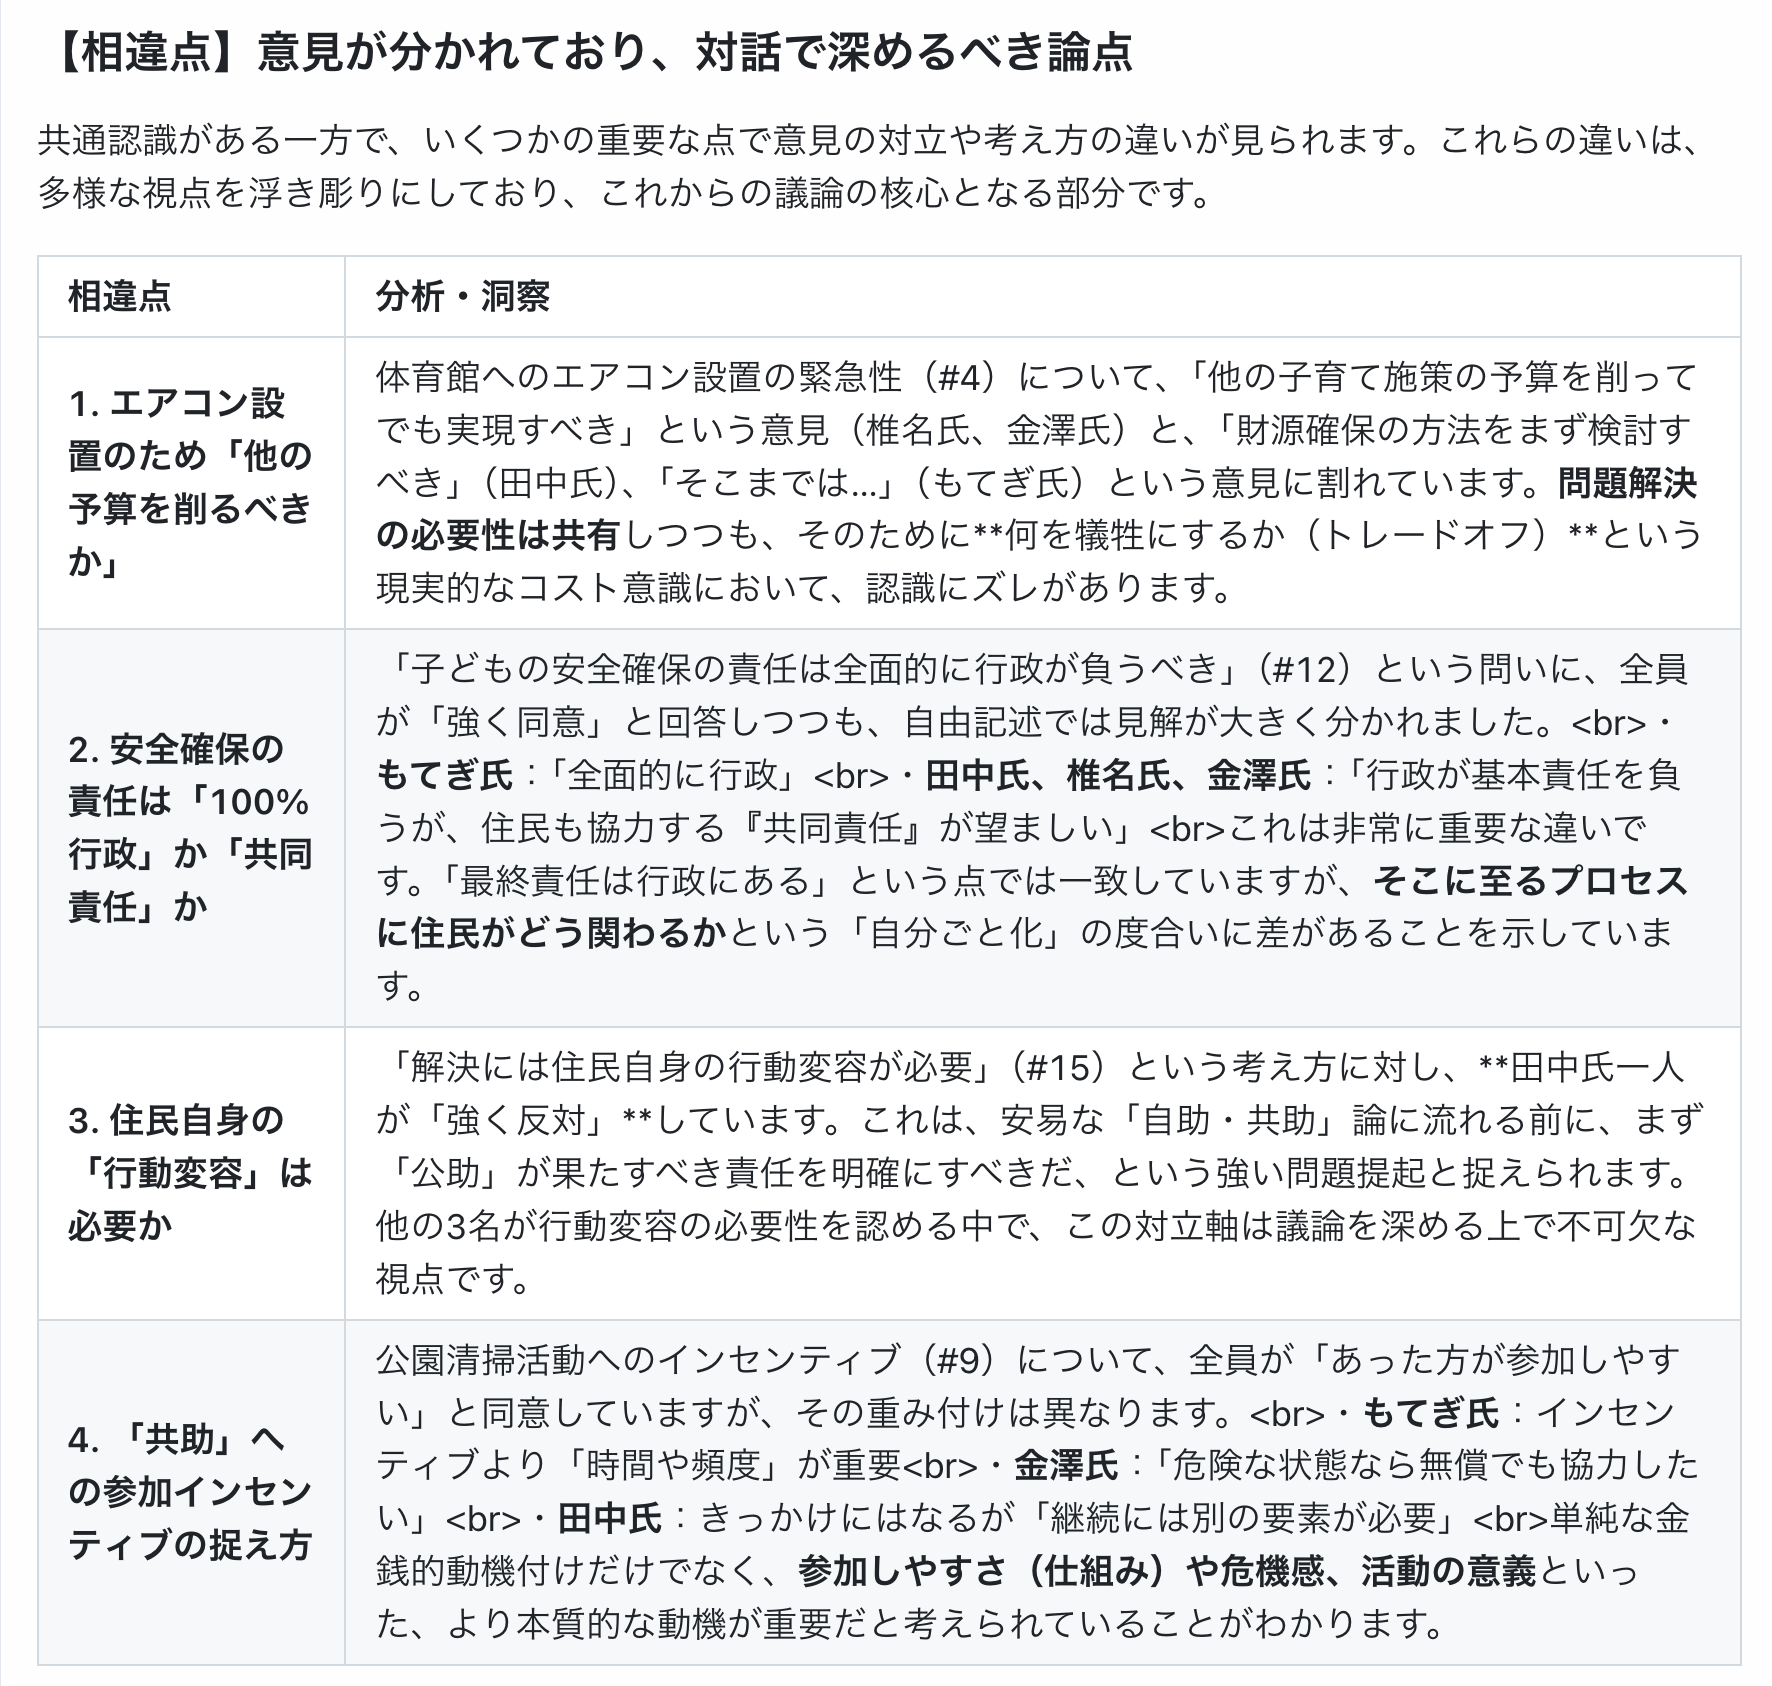
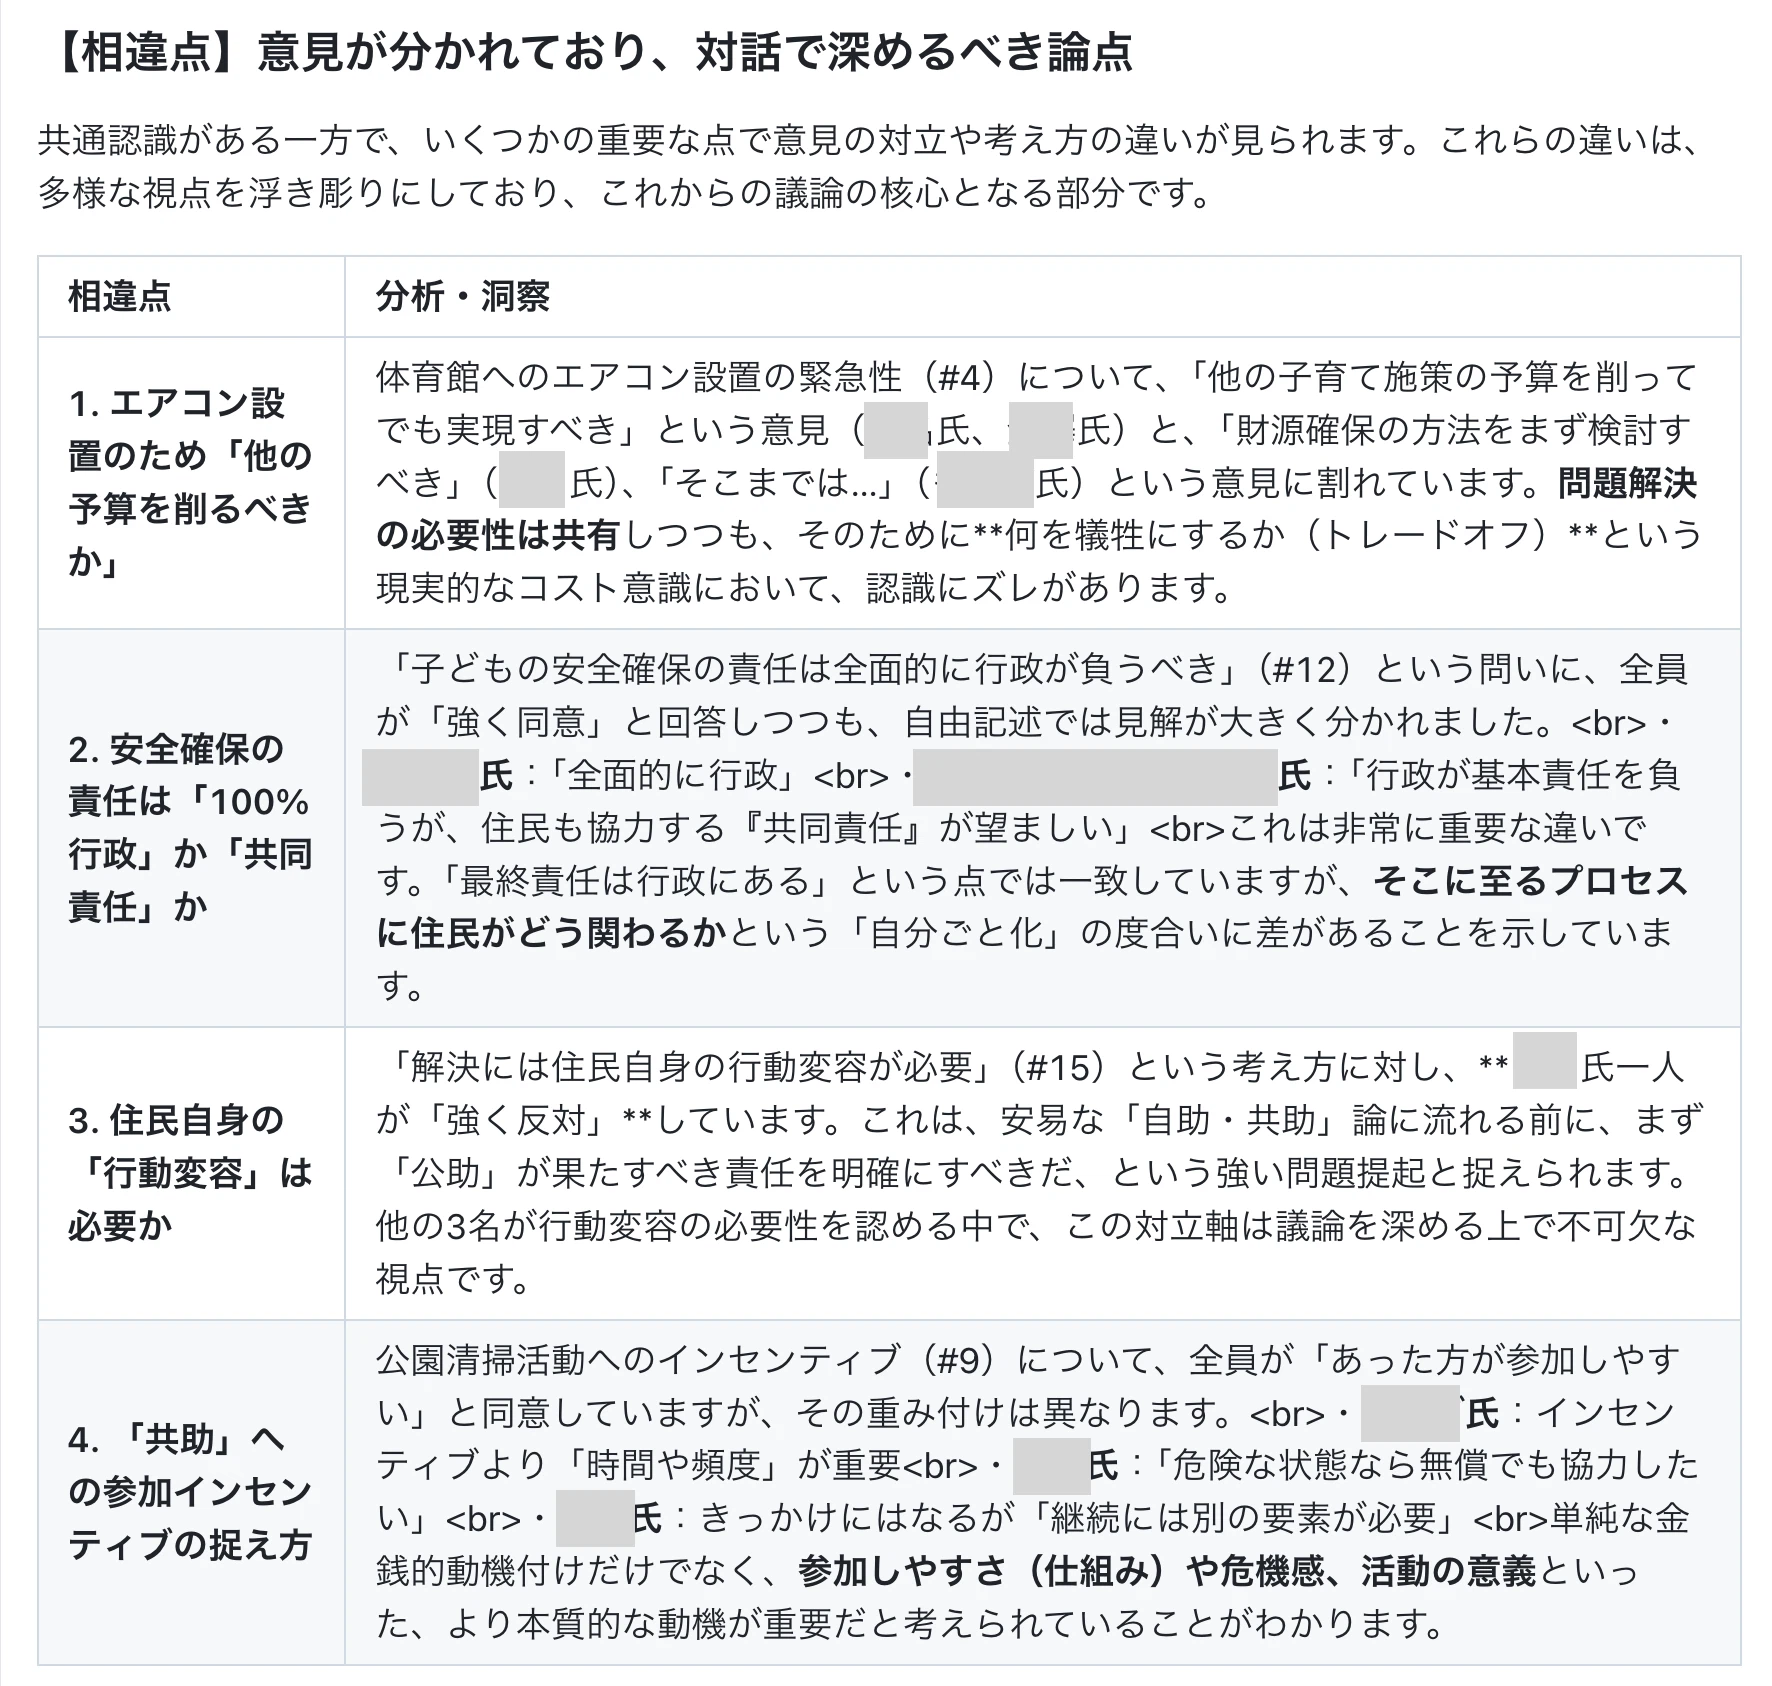
太田市事例の画像3点をモザイク処理済み版に差し替え
tokorotenのレビュー指摘に対応。住民の顔が写っている画像に
モザイクを適用した版に入れ替え:
- 自分ごと化会議の会場風景（jpeg→png変換も実施）
- スマートフォンで倍速会議に回答する参加者
- 倍速会議の相違点レポート

Entire-Checkpoint: 782ad14d7b65

diff --git a/11_03_多元現実.md b/11_03_多元現実.md
@@ -102,7 +102,7 @@
 
 本取り組みは太田市が主催し、構想日本が協力して実施したもので、多元現実は技術協力としてAI支援を提供しました。
 
-![太田市「自分ごと化会議」の会場風景。会議室に複数のグループテーブルが配置され、10代から70代までの約20名の市民が着席して議論している。室内の2つの大型スクリーンには倍速会議の分析結果が投影されており、左のスクリーンには個人の経験に基づく意見の要約が、右のスクリーンには「安心して過ごせる場づくり」といった議論テーマが表示されている。参加者はテーブルごとに向かい合い、資料を見ながら対話を進めている。](images/11_03_ota_jibungotoka_overview.jpeg)
+![太田市「自分ごと化会議」の会場風景。会議室に複数のグループテーブルが配置され、10代から70代までの約20名の市民が着席して議論している。室内の2つの大型スクリーンには倍速会議の分析結果が投影されており、左のスクリーンには個人の経験に基づく意見の要約が、右のスクリーンには「安心して過ごせる場づくり」といった議論テーマが表示されている。参加者はテーブルごとに向かい合い、資料を見ながら対話を進めている。](images/11_03_ota_jibungotoka_overview.png)
 
 **無作為抽出会議における課題**
 
